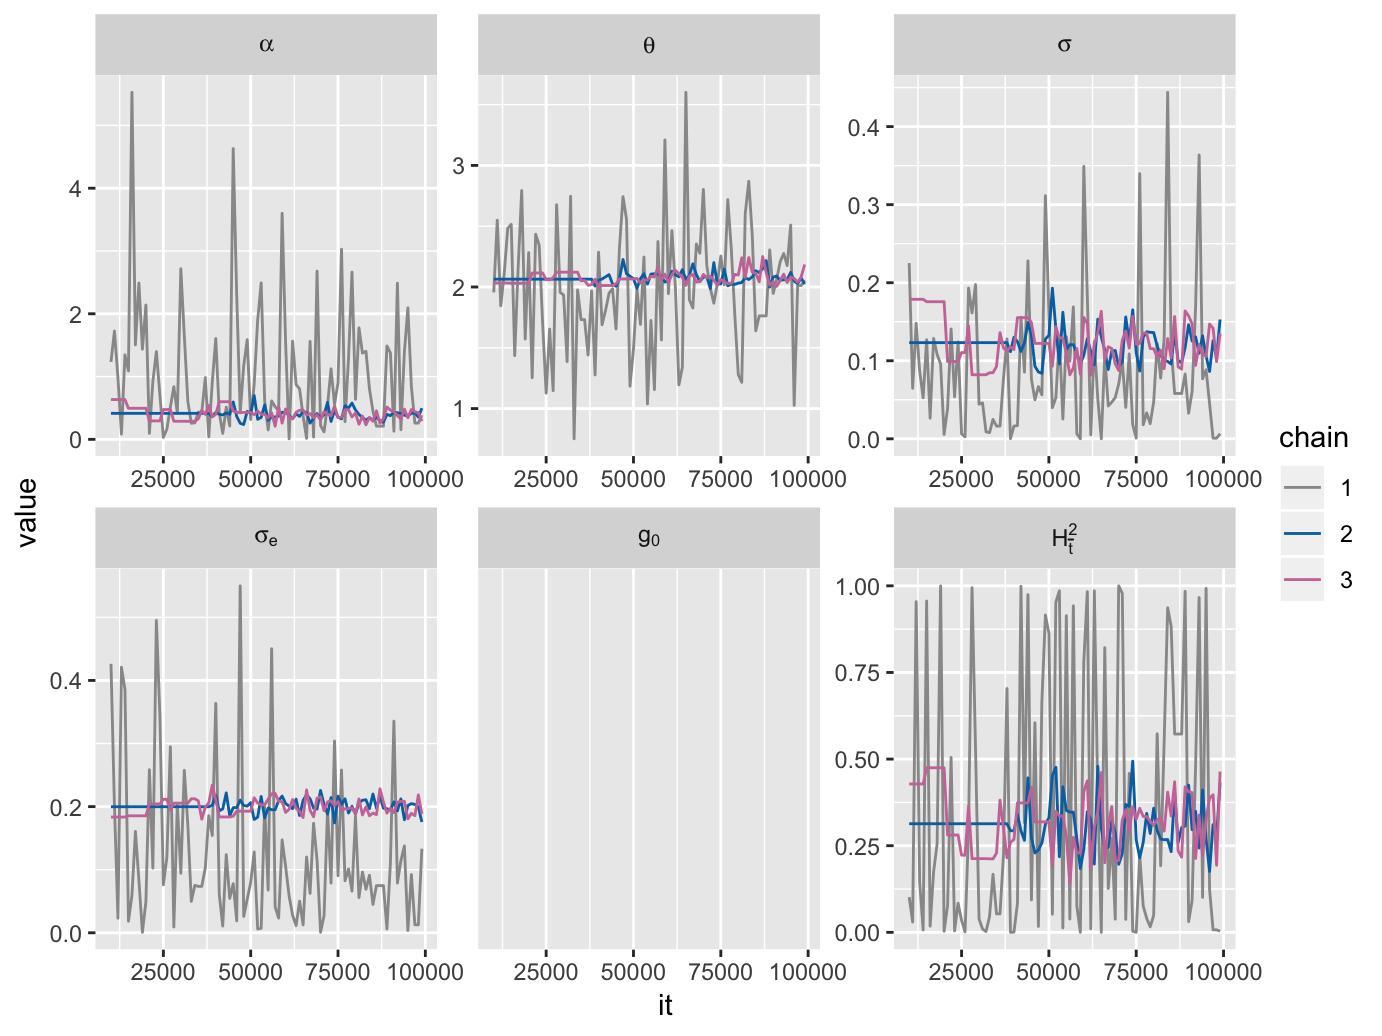
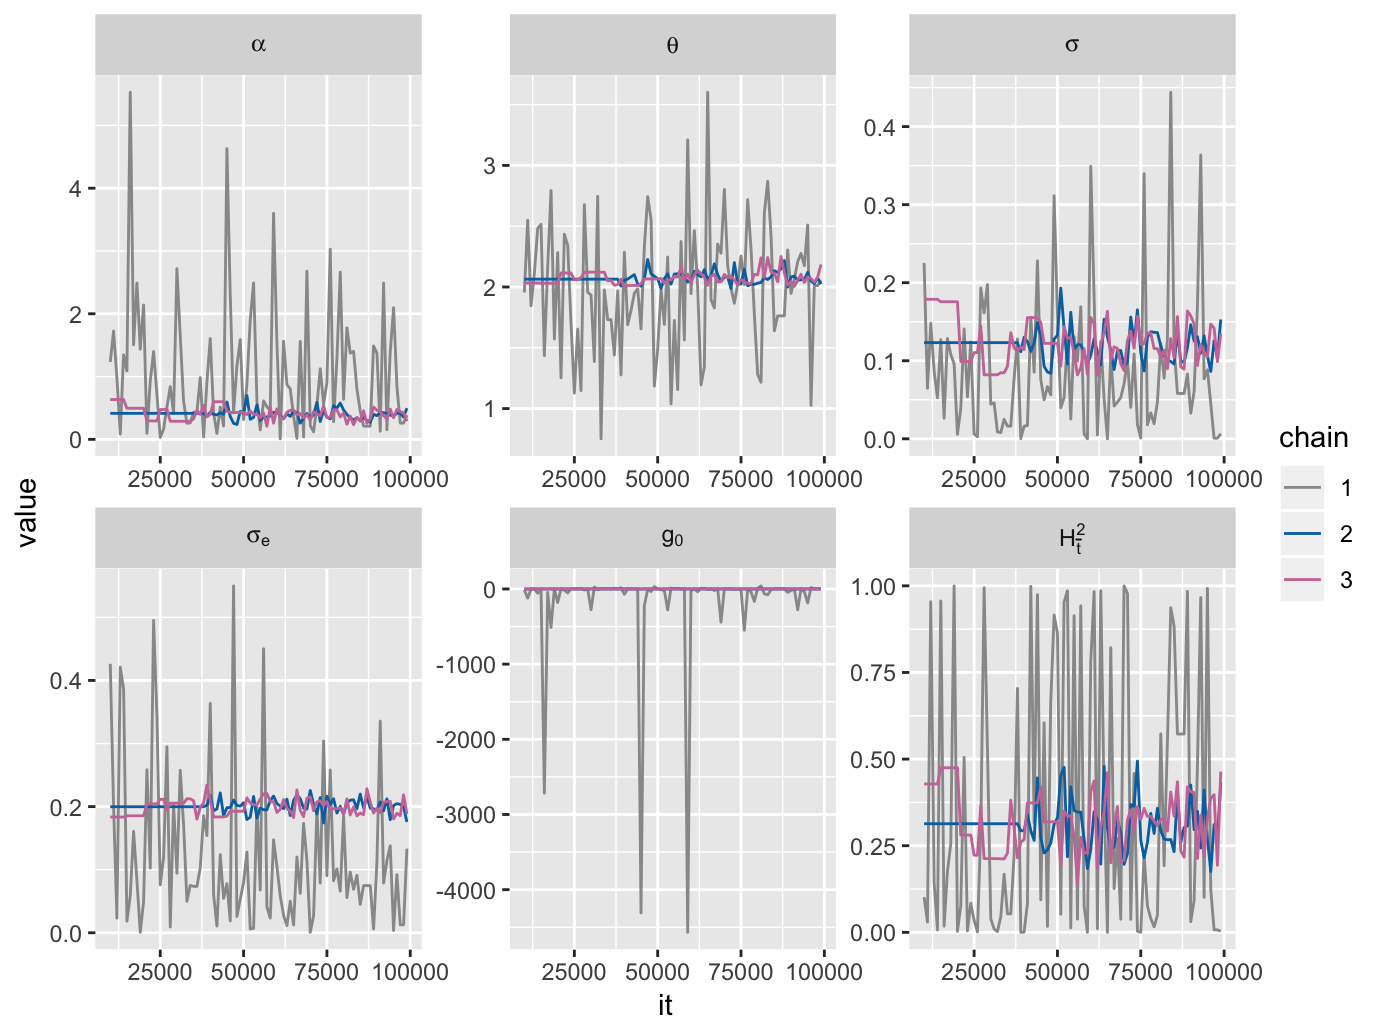
Fixed a bug with the summary of g0 - the value is obtained from re-evaluating the loglik function in the POUMM object; Rolled-back the second change in pull-request 2, because it is no more needed - the above bug-fix should handle it correctly.
DESCRIPTION: Added Matt Dowle as role 'ctb' in the authors' list.

Added missing bibtex references in vignettes/REFERENCES.bib - copy of the same file is placed in inst directory.

Changed region(s): [[0.0622, 0.0, 0.9023, 0.9575], [0.4667, 0.0309, 0.4978, 0.0618]]

diff --git a/docs/articles/InterpretingPOUMM.html b/docs/articles/InterpretingPOUMM.html
@@ -36,7 +36,7 @@
       </button>
       <span class="navbar-brand">
         <a class="navbar-link" href="../index.html">POUMM</a>
-        <span class="version label label-default" data-toggle="tooltip" data-placement="bottom" title="Released version">2.1.4.1</span>
+        <span class="version label label-default" data-toggle="tooltip" data-placement="bottom" title="Released version">2.1.4.2</span>
       </span>
     </div>
 
@@ -100,8 +100,8 @@
 <a href="#parametrizing-the-poumm" class="anchor"></a>Parametrizing the POUMM</h1>
 <p>From a modeling perspective, the POUMM can be regarded as a combination of two of its widely used nested models:</p>
 <ul>
-<li>The non-mixed phylogenetic Ornstein-Uhlenbeck (POU) model, (also referred to as the ‘Hansen model’ <span class="citation">(<span class="citeproc-not-found" data-reference-id="Butler:2004ce"><strong>???</strong></span>)</span>), which has been used to infer local phenotypic optima in phylogenetic clades or across categories of phylogenetic related species <span class="citation">(<span class="citeproc-not-found" data-reference-id="Butler:2004ce"><strong>???</strong></span>)</span>, and to prove the presence of stabilizing selection towards a single stationary peak (SSP) <span class="citation">(<span class="citeproc-not-found" data-reference-id="Harmon:2010gh"><strong>???</strong></span>)</span>.</li>
-<li>The phylogenetic mixed model (PMM) <span class="citation">(<span class="citeproc-not-found" data-reference-id="Lynch:1991db"><strong>???</strong></span>; Housworth, Martins, and Lynch 2004)</span>, which has been used to measure phylogenetic heritability under the assumption that the genotype evolves according to Brownian motion <span class="citation">(Hodcroft et al. 2014)</span>;</li>
+<li>The non-mixed phylogenetic Ornstein-Uhlenbeck (POU) model, (also referred to as the ‘Hansen model’ <span class="citation">(Butler and King 2004)</span>), which has been used to infer local phenotypic optima in phylogenetic clades or across categories of phylogenetic related species <span class="citation">(Butler and King 2004)</span>, and to prove the presence of stabilizing selection towards a single stationary peak (SSP) <span class="citation">(Harmon et al. 2010)</span>.</li>
+<li>The phylogenetic mixed model (PMM) <span class="citation">(Lynch 1991; Housworth, Martins, and Lynch 2004)</span>, which has been used to measure phylogenetic heritability under the assumption that the genotype evolves according to Brownian motion <span class="citation">(Hodcroft et al. 2014)</span>;</li>
 </ul>
 <p>The POUMM combines the applications of the above two models. The properties we will consider represent bijective functions of some of the POUMM parameters. Thus, it is possible to reparametrize the POUMM, so that the model inference is done directly on properties of interest, e.g. the phylogenetic heritability. This is particularly useful for Bayesian inference, since for Bayesian inference priors should be specified for the properties of interest rather than the default POUMM parameters. We call a <em>parametrization</em> any numerical bijective function mapping its argument into the default POUMM parameter-space (<span class="math inline">\(&lt;g_0,\alpha,\theta,\sigma,\sigma_e&gt;\)</span>).</p>
 <div id="trait-distribution-at-equilibrium" class="section level2">
@@ -125,7 +125,7 @@
 <div id="phylogenetic-heritability" class="section level2">
 <h2 class="hasAnchor">
 <a href="#phylogenetic-heritability" class="anchor"></a>Phylogenetic heritability</h2>
-<p>The term <em>phylogenetic heritability</em>, introduced with the phylogenetic mixed model (PMM) <span class="citation">(Housworth, Martins, and Lynch 2004)</span>, measures the proportion of phenotypic variance in a population attributable to heritable factors, such as genes, as opposed to non-heritable factors, such as environment and measurement error. Although this concept has been applied mostly in the context of the original PMM, i.e. under the assumption of Brownian motion, the same concept applies to any evolutionary model allowing for the estimation of measurement error (ME) <span class="citation">(<span class="citeproc-not-found" data-reference-id="Hansen:2012et"><strong>???</strong></span>)</span>. The <em>phylogenetic heritability</em> is defined as the expected proportion of phenotypic variance attributable to <span class="math inline">\(g\)</span> at the tips of the tree, <span class="math inline">\(\sigma^2(g)/\left[\sigma^2(g)+\sigma_e^2\right]\)</span> <span class="citation">(Housworth, Martins, and Lynch 2004)</span>. This definition is a phylogenetic variant of the definition of broad-sense heritability, <span class="math inline">\(H^2\)</span>, from quantitative genetics <span class="citation">(<span class="citeproc-not-found" data-reference-id="Lynch:1998vx"><strong>???</strong></span>)</span>. However, in the case of a trait evolving along a phylogeny, the expected genotypic variance, <span class="math inline">\(\sigma^2(g)\)</span>, and, therefore, the phylogenetic heritability, are functions of time. Depending on the applicaiton, the following three types of phylogenetic heritability might all be of interest:</p>
+<p>The term <em>phylogenetic heritability</em>, introduced with the phylogenetic mixed model (PMM) <span class="citation">(Housworth, Martins, and Lynch 2004)</span>, measures the proportion of phenotypic variance in a population attributable to heritable factors, such as genes, as opposed to non-heritable factors, such as environment and measurement error. Although this concept has been applied mostly in the context of the original PMM, i.e. under the assumption of Brownian motion, the same concept applies to any evolutionary model allowing for the estimation of measurement error (ME) <span class="citation">(Hansen and Bartoszek 2012)</span>. The <em>phylogenetic heritability</em> is defined as the expected proportion of phenotypic variance attributable to <span class="math inline">\(g\)</span> at the tips of the tree, <span class="math inline">\(\sigma^2(g)/\left[\sigma^2(g)+\sigma_e^2\right]\)</span> <span class="citation">(Housworth, Martins, and Lynch 2004)</span>. This definition is a phylogenetic variant of the definition of broad-sense heritability, <span class="math inline">\(H^2\)</span>, from quantitative genetics <span class="citation">(Lynch and Walsh 1998)</span>. However, in the case of a trait evolving along a phylogeny, the expected genotypic variance, <span class="math inline">\(\sigma^2(g)\)</span>, and, therefore, the phylogenetic heritability, are functions of time. Depending on the applicaiton, the following three types of phylogenetic heritability might all be of interest:</p>
 <ul>
 <li>Expectation at the mean root-tip distance (<span class="math inline">\(\bar{t}\)</span>): <span class="math inline">\(H_{\bar{t}}^2:=\left[\sigma^2\, \frac{\left(1-e^{-2\alpha \bar{t}}\right)}{2\alpha}\right]/\left[\sigma^2\, \frac{\left(1-e^{-2\alpha \bar{t}}\right)}{2\alpha}+\sigma_e^2\right]\)</span>. This definition gives rize to three parametrizations where <span class="math inline">\(H_{\bar{t}}^2\)</span> is a free model parameter, while one of the parameters <span class="math inline">\(\alpha\)</span>, <span class="math inline">\(\sigma\)</span> or <span class="math inline">\(\sigma_e\)</span> is a function of <span class="math inline">\(H_{\bar{t}}^2\)</span> and the two other parameters. These parametrizations can be expressed as:
 <span class="math display">\[\begin{align}
@@ -241,7 +241,7 @@ specH2tMean<span class="op">$</span>parMapping</code></pre></div>
 ##     }
 ##     par
 ## }
-## &lt;environment: 0x7f93de37eac0&gt;</code></pre>
+## &lt;environment: 0x7fc9bedc7348&gt;</code></pre>
 <div class="sourceCode"><pre class="sourceCode r"><code class="sourceCode r"><span class="co"># Prior for the MCMC sampling</span>
 specH2tMean<span class="op">$</span>parPriorMCMC</code></pre></div>
 <pre><code>## function (par) 
@@ -251,7 +251,7 @@ specH2tMean<span class="op">$</span>parPriorMCMC</code></pre></div>
 ##         log = TRUE) + dexp(par[4], rate = 2/zSD, log = TRUE) + 
 ##         dnorm(par[5], zMean, 2 * zSD, log = TRUE)
 ## }
-## &lt;environment: 0x7f93de37eac0&gt;</code></pre>
+## &lt;environment: 0x7fc9bedc7348&gt;</code></pre>
 <div class="sourceCode"><pre class="sourceCode r"><code class="sourceCode r"><span class="co"># Bounds for the maximum likelihood search</span>
 specH2tMean<span class="op">$</span>parLower</code></pre></div>
 <pre><code>##   alpha   theta H2tMean  sigmae      g0 
@@ -290,14 +290,29 @@ TODO
 <h1 class="hasAnchor">
 <a href="#references" class="anchor"></a>References</h1>
 <div id="refs" class="references">
+<div id="ref-Butler:2004ce">
+<p>Butler, M A, and A A King. 2004. “Phylogenetic comparative analysis: A modeling approach for adaptive evolution.” <em>American Naturalist</em> 164 (6): 683–95.</p>
+</div>
 <div id="ref-Hansen:1997ek">
 <p>Hansen, Thomas F. 1997. “Stabilizing Selection and the Comparative Analysis of Adaptation.” <em>Evolution; International Journal of Organic Evolution</em> 51 (5): 1341–51.</p>
+</div>
+<div id="ref-Hansen:2012et">
+<p>Hansen, Thomas F, and Krzysztof Bartoszek. 2012. “Interpreting the evolutionary regression: the interplay between observational and biological errors in phylogenetic comparative studies.” <em>Systematic Biology</em> 61 (3): 413–25.</p>
+</div>
+<div id="ref-Harmon:2010gh">
+<p>Harmon, Luke J, Jonathan B Losos, T Jonathan Davies, Rosemary G Gillespie, John L Gittleman, W Bryan Jennings, Kenneth H Kozak, et al. 2010. “Early bursts of body size and shape evolution are rare in comparative data.” <em>Evolution</em> 64 (8): 2385–96.</p>
 </div>
 <div id="ref-Hodcroft:2014es">
 <p>Hodcroft, Emma, Jarrod D Hadfield, Esther Fearnhill, Andrew Phillips, David Dunn, Siobhan O’Shea, Deenan Pillay, Andrew J Leigh Brown, on behalf of the UK HIV Drug Resistance Database, and the UK CHIC Study. 2014. “The Contribution of Viral Genotype to Plasma Viral Set-Point in HIV Infection.” <em>PLoS Pathogens</em> 10 (5): e1004112.</p>
 </div>
 <div id="ref-Housworth:2004gj">
 <p>Housworth, Elizabeth A, Emília P Martins, and Michael Lynch. 2004. “The phylogenetic mixed model.” <em>The American Naturalist</em> 163 (1): 84–96.</p>
+</div>
+<div id="ref-Lynch:1991db">
+<p>Lynch, Michael. 1991. “Methods for the Analysis of Comparative Data in Evolutionary Biology.” <em>Evolution</em> 45 (5): 1065–80.</p>
+</div>
+<div id="ref-Lynch:1998vx">
+<p>Lynch, Michael, and Bruce Walsh. 1998. <em>Genetics and Analysis of Quantitative Traits</em>. Sinauer Associates Incorporated.</p>
 </div>
 <div id="ref-Mitov:2018co">
 <p>Mitov, Venelin, and Tanja Stadler. 2018. “A Practical Guide to Estimating the Heritability of Pathogen Traits.” <em>Molecular Biology and Evolution</em> 35 (3): 756–72. doi:<a href="https://doi.org/10.1093/molbev/msx328">10.1093/molbev/msx328</a>.</p>

diff --git a/docs/articles/UserGuide.html b/docs/articles/UserGuide.html
@@ -36,7 +36,7 @@
       </button>
       <span class="navbar-brand">
         <a class="navbar-link" href="../index.html">POUMM</a>
-        <span class="version label label-default" data-toggle="tooltip" data-placement="bottom" title="Released version">2.1.4.1</span>
+        <span class="version label label-default" data-toggle="tooltip" data-placement="bottom" title="Released version">2.1.4.2</span>
       </span>
     </div>
 
@@ -212,15 +212,14 @@ MCMC univariate density plots. Black dots on the x-axis indicate the ML-fit.
 ##  6:       H2tInf 500   0.31451  0.31802   0.1853,0.4642 103.95 1.048
 ##  7:       H2tMax 500   0.31450  0.31795   0.1853,0.4642 103.97 1.048
 ##  8:      H2tMean 500   0.31343  0.31611   0.1846,0.4639 104.07 1.049
-##  9:           g0 500        NA       NA           NA,NA   0.00    NA
+##  9:           g0 500   0.34021  0.31496 -1.1239, 0.9072 105.20 1.087
 ## 10: sigmaG2tMean 500   0.01823  0.01867 0.01100,0.03038 107.95 1.056
 ## 11:  sigmaG2tMax 500   0.01832  0.01883 0.01107,0.03060 108.13 1.054
 ## 12:  sigmaG2tInf 500   0.01832  0.01884 0.01107,0.03062 108.13 1.054
 ## 13:      logpost 500        NA 15.35738     12.87,16.96  44.96 1.179
 ## 14:       loglik 500  16.32733       NA           NA,NA   0.00    NA
 ## 15:          AIC 500 -22.65466       NA           NA,NA   0.00    NA
-## 16:         AICc 500 -22.53320       NA           NA,NA   0.00    NA
-## 17:           g0 500   0.34021       NA           NA,NA   0.00    NA</code></pre>
+## 16:         AICc 500 -22.53320       NA           NA,NA   0.00    NA</code></pre>
 <p>The G.R. diagnostic is used to check whether two random samples originate from the same distribution. Values that are substantially different from 1.00 (in this case greater than 1.01) indicate significant difference between the two samples and possible need to increase the number of MCMC iterations. Therefore, we rerun the fit specifying that each chain should be run for <span class="math inline">\(4 \times 10^5\)</span> iterations:</p>
 <div class="sourceCode"><pre class="sourceCode r"><code class="sourceCode r">fitPOUMM2 &lt;-<span class="st"> </span><span class="kw"><a href="../reference/POUMM.html">POUMM</a></span>(z[<span class="dv">1</span><span class="op">:</span>N], tree, <span class="dt">spec=</span><span class="kw"><a href="https://www.rdocumentation.org/packages/base/topics/list">list</a></span>(<span class="dt">nSamplesMCMC =</span> <span class="fl">4e5</span>))  </code></pre></div>
 <p>Now, both the density plots and the G.R. values indicate nearly perfect convergence of the second and third chains. The agreement between the ML-estimates (black dots on the density plots) and the posterior density modes (approximate location of the peak in the density curves) shows that the prior does not inflict a bias on the MCMC sample. The mismatch between chain 1 and chains 2 and 3 suggests that the information about the POUMM parameters contained in the data disagrees with or significantly improves our prior knowledge about these parameters. This is the desired outcome of a Bayesian fit, in particular, in the case of a weak (non-informed) prior, such as the default one.</p>
@@ -228,24 +227,23 @@ MCMC univariate density plots. Black dots on the x-axis indicate the ML-fit.
 plotList<span class="op">$</span>densplot</code></pre></div>
 <p><img src="UserGuide_files/figure-html/unnamed-chunk-9-1.png" width="691.2"></p>
 <div class="sourceCode"><pre class="sourceCode r"><code class="sourceCode r"><span class="kw"><a href="https://www.rdocumentation.org/packages/base/topics/summary">summary</a></span>(fitPOUMM2)</code></pre></div>
-<pre><code>##             stat   N       MLE PostMean               HPD ESS   G.R.
-##  1:        alpha 500   0.41430  0.39388     0.2069,0.5752 720 1.0004
-##  2:        theta 500   2.06446  2.08188       1.993,2.197 720 1.0009
-##  3:        sigma 500   0.12321  0.11917   0.07596,0.16771 720 0.9996
-##  4:       sigmae 500   0.19983  0.20130     0.1789,0.2241 720 0.9988
-##  5:          H2e 500   0.43886  0.42853     0.3047,0.5602 720 0.9987
-##  6:       H2tInf 500   0.31451  0.31247     0.1710,0.4816 720 0.9994
-##  7:       H2tMax 500   0.31450  0.31231     0.1704,0.4808 720 0.9994
-##  8:      H2tMean 500   0.31343  0.30984     0.1676,0.4793 720 0.9994
-##  9:           g0 500        NA       NA             NA,NA   0     NA
-## 10: sigmaG2tMean 500   0.01823  0.01839 0.008902,0.029703 720 1.0007
-## 11:  sigmaG2tMax 500   0.01832  0.01861 0.008838,0.029476 720 1.0008
-## 12:  sigmaG2tInf 500   0.01832  0.01863 0.008849,0.029482 720 1.0008
-## 13:      logpost 500        NA 15.04781       11.78,17.01 720 1.0101
-## 14:       loglik 500  16.32733       NA             NA,NA   0     NA
-## 15:          AIC 500 -22.65466       NA             NA,NA   0     NA
-## 16:         AICc 500 -22.53320       NA             NA,NA   0     NA
-## 17:           g0 500   0.34021       NA             NA,NA   0     NA</code></pre>
+<pre><code>##             stat   N       MLE PostMean               HPD   ESS   G.R.
+##  1:        alpha 500   0.41430  0.39388     0.2069,0.5752 720.0 1.0004
+##  2:        theta 500   2.06446  2.08188       1.993,2.197 720.0 1.0009
+##  3:        sigma 500   0.12321  0.11917   0.07596,0.16771 720.0 0.9996
+##  4:       sigmae 500   0.19983  0.20130     0.1789,0.2241 720.0 0.9988
+##  5:          H2e 500   0.43886  0.42853     0.3047,0.5602 720.0 0.9987
+##  6:       H2tInf 500   0.31451  0.31247     0.1710,0.4816 720.0 0.9994
+##  7:       H2tMax 500   0.31450  0.31231     0.1704,0.4808 720.0 0.9994
+##  8:      H2tMean 500   0.31343  0.30984     0.1676,0.4793 720.0 0.9994
+##  9:           g0 500   0.34021  0.37982   -0.5617, 1.2600 665.7 1.0059
+## 10: sigmaG2tMean 500   0.01823  0.01839 0.008902,0.029703 720.0 1.0007
+## 11:  sigmaG2tMax 500   0.01832  0.01861 0.008838,0.029476 720.0 1.0008
+## 12:  sigmaG2tInf 500   0.01832  0.01863 0.008849,0.029482 720.0 1.0008
+## 13:      logpost 500        NA 15.04781       11.78,17.01 720.0 1.0101
+## 14:       loglik 500  16.32733       NA             NA,NA   0.0     NA
+## 15:          AIC 500 -22.65466       NA             NA,NA   0.0     NA
+## 16:         AICc 500 -22.53320       NA             NA,NA   0.0     NA</code></pre>
 <div id="consistency-of-the-fit-with-the-true-simulation-parameters" class="section level2">
 <h2 class="hasAnchor">
 <a href="#consistency-of-the-fit-with-the-true-simulation-parameters" class="anchor"></a>Consistency of the fit with the “true” simulation parameters</h2>

diff --git a/docs/index.html b/docs/index.html
@@ -47,7 +47,7 @@
       </button>
       <span class="navbar-brand">
         <a class="navbar-link" href="index.html">POUMM</a>
-        <span class="version label label-default" data-toggle="tooltip" data-placement="bottom" title="Released version">2.1.4.1</span>
+        <span class="version label label-default" data-toggle="tooltip" data-placement="bottom" title="Released version">2.1.4.2</span>
       </span>
     </div>
 
@@ -186,6 +186,7 @@ lmtest<span class="op">::</span><span class="kw"><a href="https://www.rdocumenta
 <h2>Developers</h2>
 <ul class="list-unstyled">
 <li>Venelin Mitov <br><small class="roles"> Author, maintainer, copyright holder </small>  </li>
+<li><a href="authors.html">All authors...</a></li>
 </ul>
 </div>
 

diff --git a/docs/authors.html b/docs/authors.html
@@ -70,7 +70,7 @@
       </button>
       <span class="navbar-brand">
         <a class="navbar-link" href="index.html">POUMM</a>
-        <span class="version label label-default" data-toggle="tooltip" data-placement="bottom" title="Released version">2.1.4.1</span>
+        <span class="version label label-default" data-toggle="tooltip" data-placement="bottom" title="Released version">2.1.4.2</span>
       </span>
     </div>
 
@@ -159,6 +159,10 @@
     <ul class="list-unstyled">
       <li>
         <p><strong>Venelin Mitov</strong>. Author, maintainer, copyright holder. 
+        </p>
+      </li>
+      <li>
+        <p><strong>Matt Dowle</strong>. Contributor. 
         </p>
       </li>
     </ul>

diff --git a/docs/reference/POUMMIsADevRelease.html b/docs/reference/POUMMIsADevRelease.html
@@ -75,7 +75,7 @@ changed through the argument numVersionComponents." />
       </button>
       <span class="navbar-brand">
         <a class="navbar-link" href="../index.html">POUMM</a>
-        <span class="version label label-default" data-toggle="tooltip" data-placement="bottom" title="Released version">2.1.4.1</span>
+        <span class="version label label-default" data-toggle="tooltip" data-placement="bottom" title="Released version">2.1.4.2</span>
       </span>
     </div>
 

diff --git a/docs/reference/dVNodesGivenTreePOUMM.html b/docs/reference/dVNodesGivenTreePOUMM.html
@@ -80,7 +80,7 @@ evolution and root-value — dVNodesGivenTreePOUMM" />
       </button>
       <span class="navbar-brand">
         <a class="navbar-link" href="../index.html">POUMM</a>
-        <span class="version label label-default" data-toggle="tooltip" data-placement="bottom" title="Released version">2.1.4.1</span>
+        <span class="version label label-default" data-toggle="tooltip" data-placement="bottom" title="Released version">2.1.4.2</span>
       </span>
     </div>
 

diff --git a/docs/reference/fitted.POUMM.html b/docs/reference/fitted.POUMM.html
@@ -76,7 +76,7 @@ to which a POUMM model has been previously fitted" />
       </button>
       <span class="navbar-brand">
         <a class="navbar-link" href="../index.html">POUMM</a>
-        <span class="version label label-default" data-toggle="tooltip" data-placement="bottom" title="Released version">2.1.4.1</span>
+        <span class="version label label-default" data-toggle="tooltip" data-placement="bottom" title="Released version">2.1.4.2</span>
       </span>
     </div>
 

diff --git a/docs/reference/mcmcPOUMMGivenPriorTreeVTips.html b/docs/reference/mcmcPOUMMGivenPriorTreeVTips.html
@@ -76,7 +76,7 @@ values at the tips and a prior distribution" />
       </button>
       <span class="navbar-brand">
         <a class="navbar-link" href="../index.html">POUMM</a>
-        <span class="version label label-default" data-toggle="tooltip" data-placement="bottom" title="Released version">2.1.4.1</span>
+        <span class="version label label-default" data-toggle="tooltip" data-placement="bottom" title="Released version">2.1.4.2</span>
       </span>
     </div>
 

diff --git a/docs/reference/covHPDFunPOUMM.html b/docs/reference/covHPDFunPOUMM.html
@@ -76,7 +76,7 @@ a given tree and a fitted POUMM model" />
       </button>
       <span class="navbar-brand">
         <a class="navbar-link" href="../index.html">POUMM</a>
-        <span class="version label label-default" data-toggle="tooltip" data-placement="bottom" title="Released version">2.1.4.1</span>
+        <span class="version label label-default" data-toggle="tooltip" data-placement="bottom" title="Released version">2.1.4.2</span>
       </span>
     </div>
 

diff --git a/docs/reference/rTrajectoryOUDef.html b/docs/reference/rTrajectoryOUDef.html
@@ -76,7 +76,7 @@ initial state (only for test purpose)" />
       </button>
       <span class="navbar-brand">
         <a class="navbar-link" href="../index.html">POUMM</a>
-        <span class="version label label-default" data-toggle="tooltip" data-placement="bottom" title="Released version">2.1.4.1</span>
+        <span class="version label label-default" data-toggle="tooltip" data-placement="bottom" title="Released version">2.1.4.2</span>
       </span>
     </div>
 

diff --git a/docs/reference/likPOUMMGivenTreeVTips.html b/docs/reference/likPOUMMGivenTreeVTips.html
@@ -87,7 +87,7 @@ interpreted as the POUMM likelihood." />
       </button>
       <span class="navbar-brand">
         <a class="navbar-link" href="../index.html">POUMM</a>
-        <span class="version label label-default" data-toggle="tooltip" data-placement="bottom" title="Released version">2.1.4.1</span>
+        <span class="version label label-default" data-toggle="tooltip" data-placement="bottom" title="Released version">2.1.4.2</span>
       </span>
     </div>
 

diff --git a/docs/reference/simulateTrait.html b/docs/reference/simulateTrait.html
@@ -74,7 +74,7 @@ trait values on a phylogenetic tree." />
       </button>
       <span class="navbar-brand">
         <a class="navbar-link" href="../index.html">POUMM</a>
-        <span class="version label label-default" data-toggle="tooltip" data-placement="bottom" title="Released version">2.1.4.1</span>
+        <span class="version label label-default" data-toggle="tooltip" data-placement="bottom" title="Released version">2.1.4.2</span>
       </span>
     </div>
 
